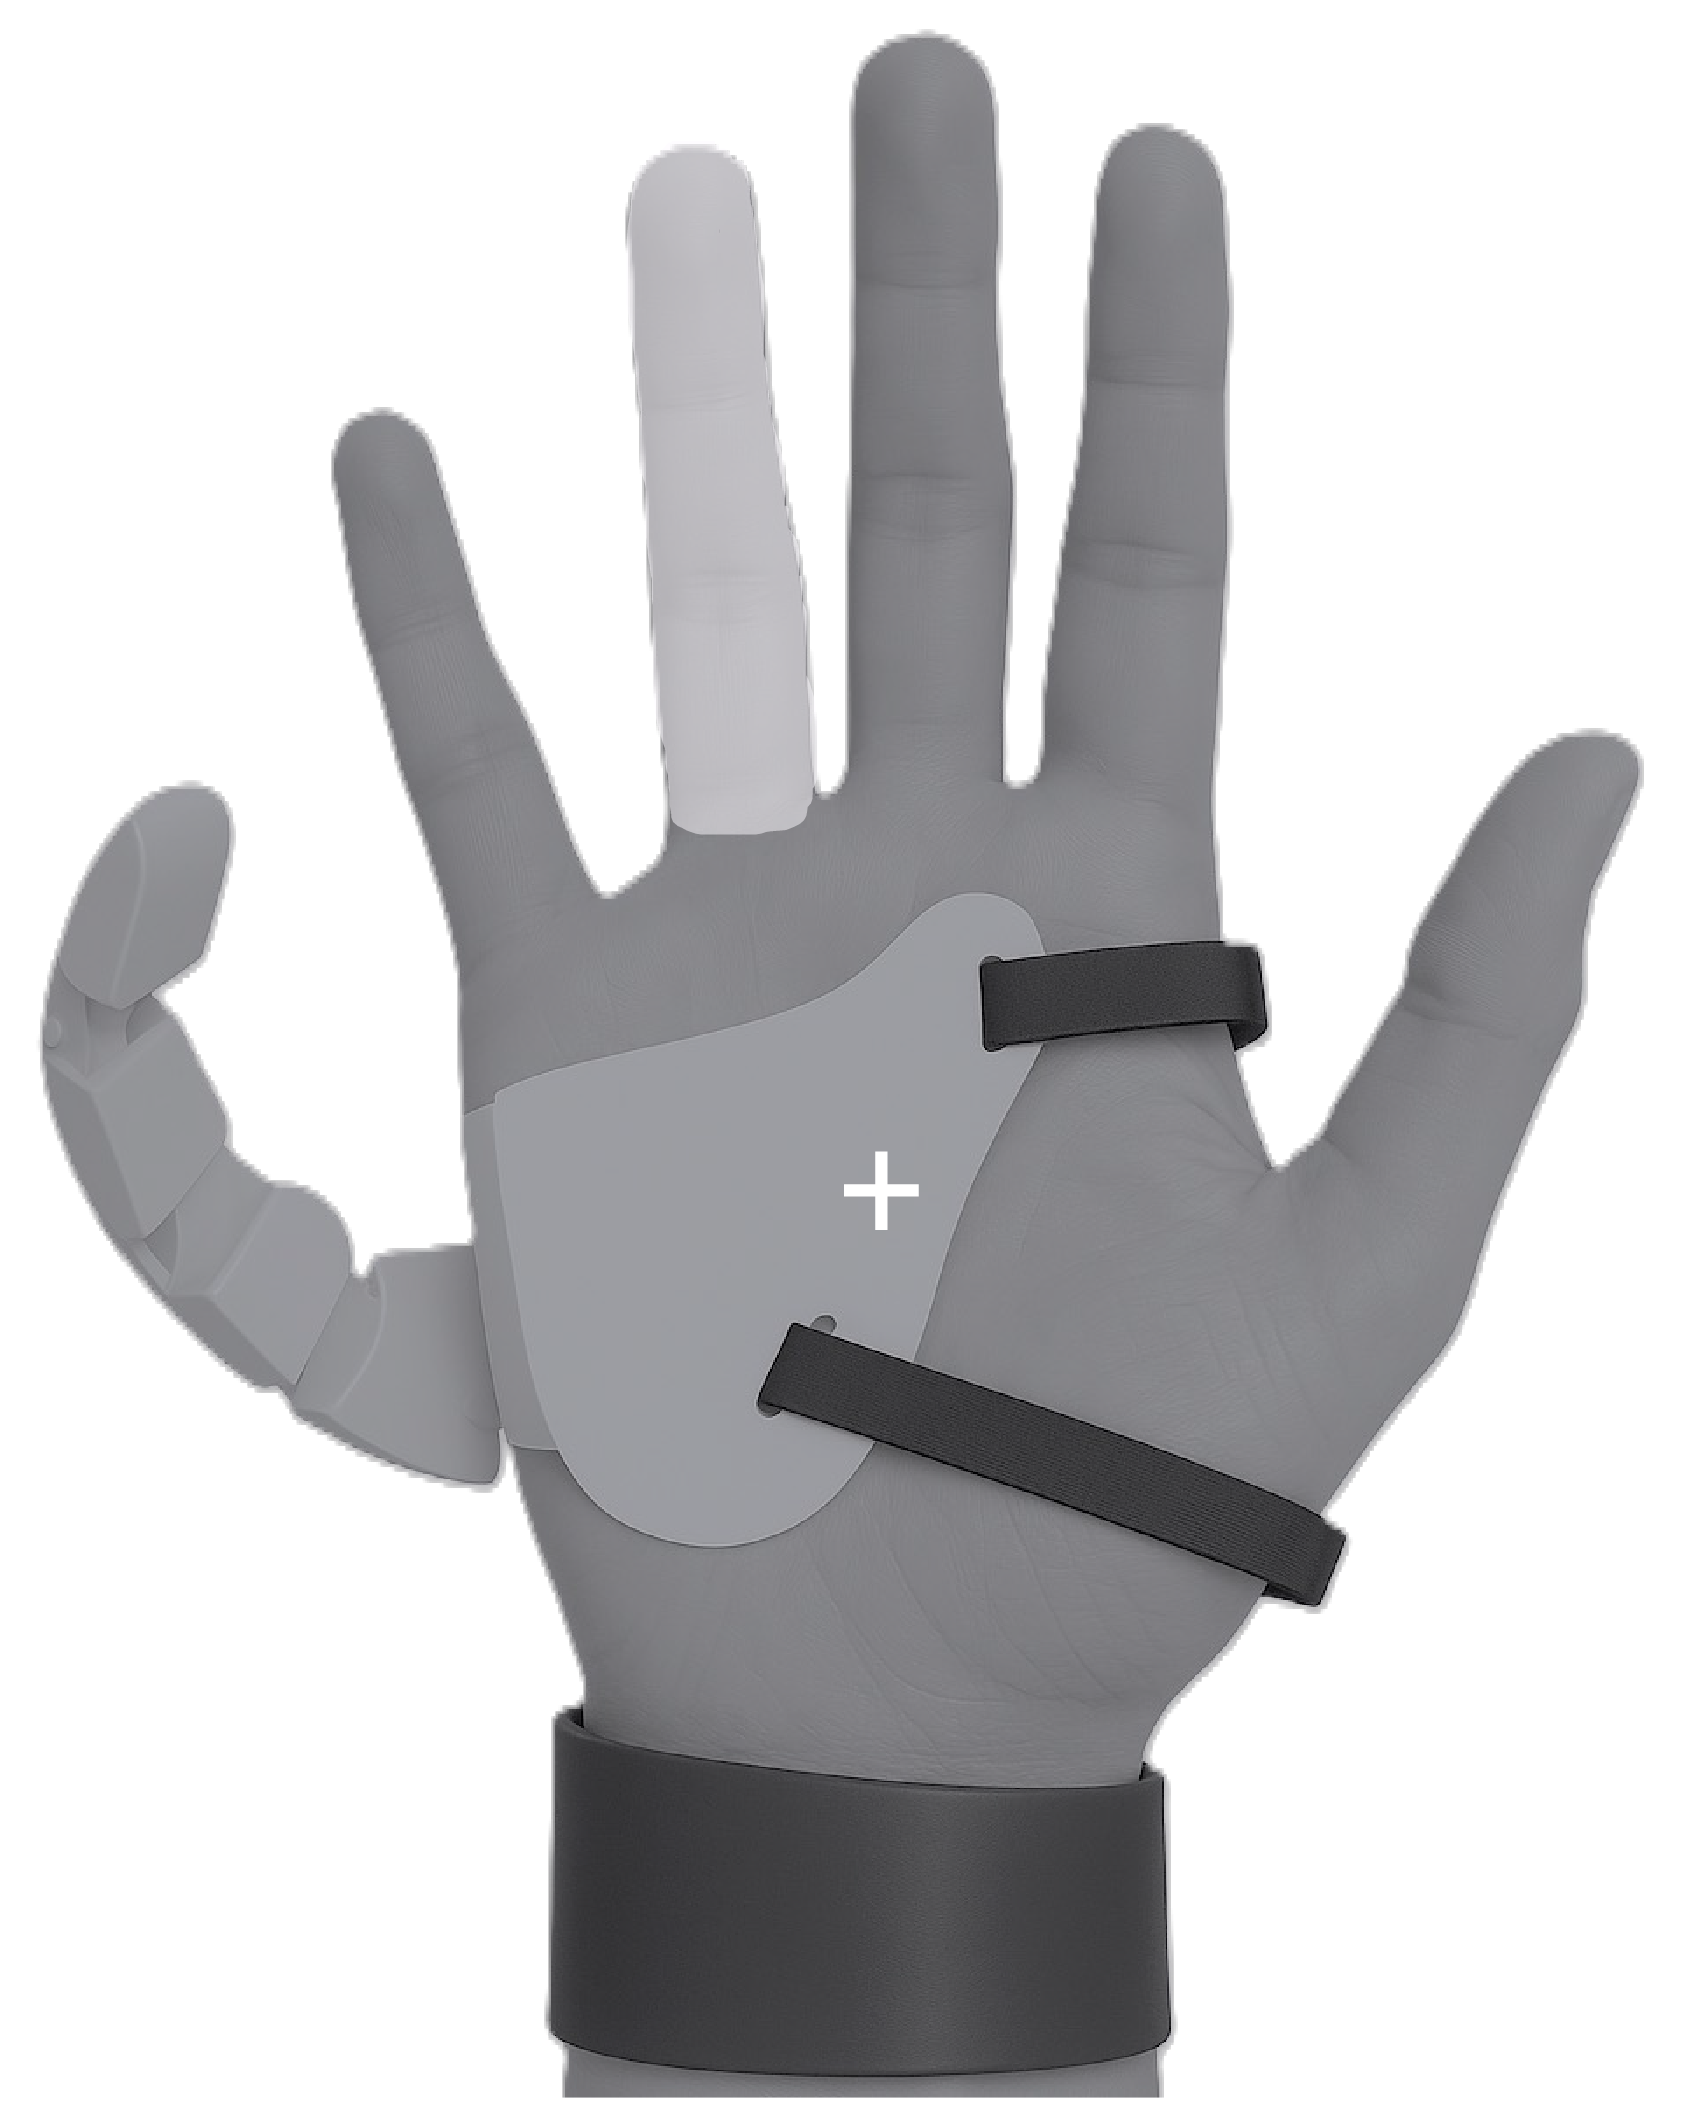
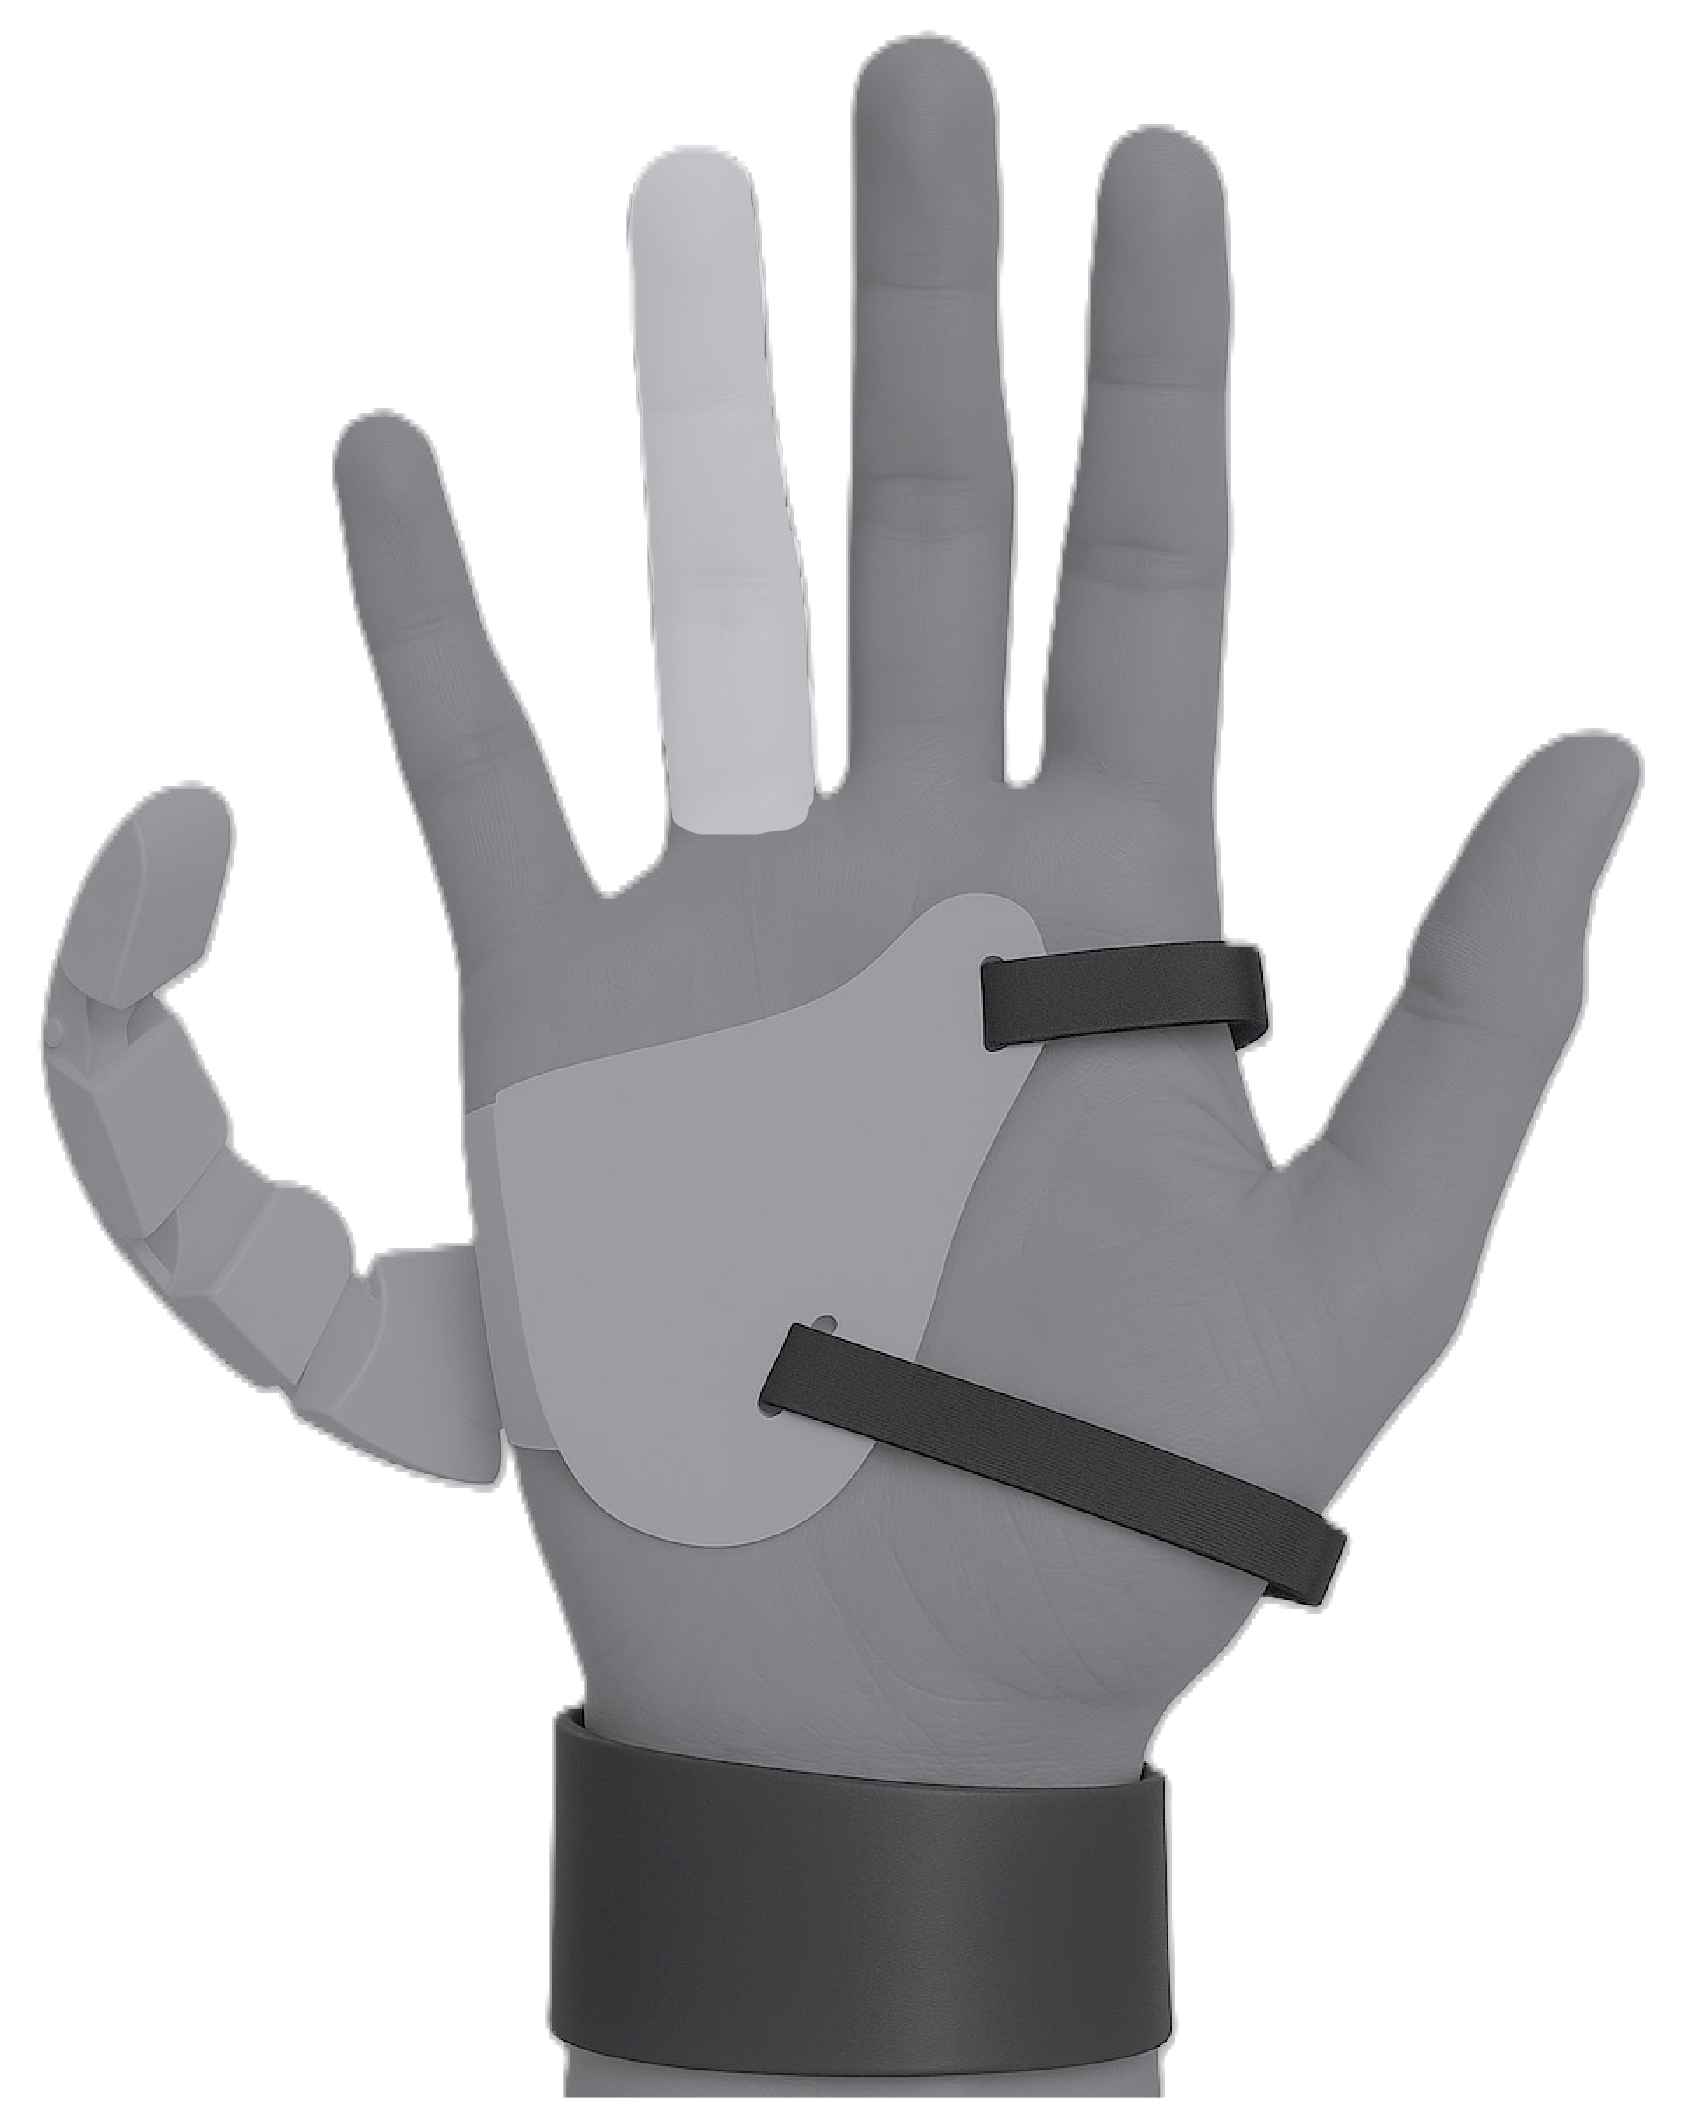
added pacing cue for MI and ME

Changed region(s): [[0.4949, 0.5312, 0.5568, 0.5938]]

diff --git a/experiments/FMRI/six-fingers/showImageBlockWindow.m b/experiments/FMRI/six-fingers/showImageBlockWindow.m
@@ -1,87 +1,79 @@
 function [startTime, endTime] = showImageBlockWindow(imagePath, fingerName)
-% Presents a static image for a fixed duration, optimized for fMRI block designs.
-%
-% This function avoids a frame-by-frame loop, instead using GetSecs() for
-% precise, time-based control of the stimulus duration. It presents the
-% image with a single Screen('Flip'), waits for the block duration while
-% checking for an exit key, and then returns.
+% Presents a static image WITH A DYNAMIC PACING CUE for a fixed duration.
     startTime = GetSecs;
     global screen;
     global parameters;
     global isTerminationKeyPressed;
-
-    % Only run if the termination key has not been pressed
+    
     if isTerminationKeyPressed
-        startTime = -1; % Return invalid times if aborted
+        startTime = -1;
         endTime = -1;
         return;
     end
-
+    
     % --- Preparation ---
-    % Give this process maximum priority for precise timing
     topPriorityLevel = MaxPriority(screen.win);
     Priority(topPriorityLevel);
-
-    % Load image file and create the texture
+    
     try
         imgMatrix = imread(imagePath);
         scaleFactor = 0.3;
         imgMatrix = imresize(imgMatrix, scaleFactor);
         imageTexture = Screen('MakeTexture', screen.win, imgMatrix);
     catch
-        % In case of error, clean up and exit gracefully
         Priority(0);
         error('Could not load image: %s', imagePath);
     end
 
     % --- Presentation ---
-    % Draw the texture to the back buffer. It will not be visible yet.
-    Screen('DrawTexture', screen.win, imageTexture);
-
-    % Flip the screen to show the image. This command is the most critical
-    % for timing. It executes at the next vertical retrace of the monitor.
-    % The returned 'vbl' is a high-precision timestamp of when the flip occurred.
-    [vbl, startTimex] = Screen('Flip', screen.win);
-%     startTime = GetSecs;
-    % Log the precise start time to the command window for debugging
-    fprintf('Stimulus ON: %s \n', fingerName);
-
-    % Calculate the target end time for the block
+    % Get the start time and calculate the target end time
+    
     endTime_c = startTime + parameters.stimulusDuration;
-
-    % --- Wait for the block duration to elapse ---
-    % Instead of a 'for' loop counting frames, we use a 'while' loop that
-    % continuously checks the master clock (GetSecs). The image remains on
-    % screen during this time.
+    
+    fprintf('Stimulus ON: %s \n', fingerName);
+    oldTextSize = Screen('TextSize', screen.win);
+    Screen('TextSize', screen.win,oldTextSize + 10 );
+    % >> This is now a frame-by-frame drawing loop
     while GetSecs < endTime_c-0.13
-        % Check for a quit key press (e.g., 'q')
+        % Check for a quit key press
         [keyIsDown, ~, keyCode] = KbCheck();
         if keyIsDown && (keyCode(KbName('q')) || keyCode(KbName('Q')))
             isTerminationKeyPressed = true;
-            % The main experiment loop will handle the shutdown
-            break; % Exit the while loop immediately
+            break; 
         end
-
-        % VERY IMPORTANT: Give the CPU a tiny break.
-        % Without this, the 'while' loop will hog 100% of a CPU core.
-        % A 1 ms wait is more than enough to prevent this and has no
-        % impact on timing precision for this purpose.
-        WaitSecs(0.001);
+        
+        % >> First, draw the background image texture on every frame
+        Screen('DrawTexture', screen.win, imageTexture);
+        
+        % >> PACING CUE LOGIC
+        % >> Determine the color of the cross based on time
+        % >> This creates a pulse at the frequency defined in your parameters
+        pulseInterval = 1 / parameters.pacingFrequency;
+        if mod(GetSecs - startTime, pulseInterval) < (pulseInterval / 2)
+            crossColor = [255 255 255]; % Light grey
+        else
+            crossColor = [80 80 80]; % Dark grey
+        end
+        
+        windowRect = Screen('Rect', screen.win);
+        [xCenter, yCenter] = RectCenter(windowRect);
+        verticalOffset = 50; 
+        xPosition = 'center';
+        yPosition = yCenter + verticalOffset;
+        
+        DrawFormattedText(screen.win, '+', xPosition, yPosition, crossColor);
+        % >> END PACING CUE LOGIC
+        
+        % >> Flip the screen to show the updated frame (image + cross)
+        Screen('Flip', screen.win);
     end
-    % --- Clean Up for this Function ---
-    % NOTE: The screen is NOT cleared here. The next call to Screen('Flip')
-    % in your main script (e.g., to show a fixation cross) will replace the image.
-    % This is standard practice.
-    
+    Screen('TextSize', screen.win, oldTextSize);
+
     fprintf('Stimulus OFF: %s \n', fingerName);
     
-    % Release the texture from memory
+    % --- Clean Up ---
     Screen('Close', imageTexture);
-    
-    % Restore normal process priority
     Priority(0);
-    
-    % Flush any pending events
     FlushEvents;
     endTime = GetSecs;
 end
